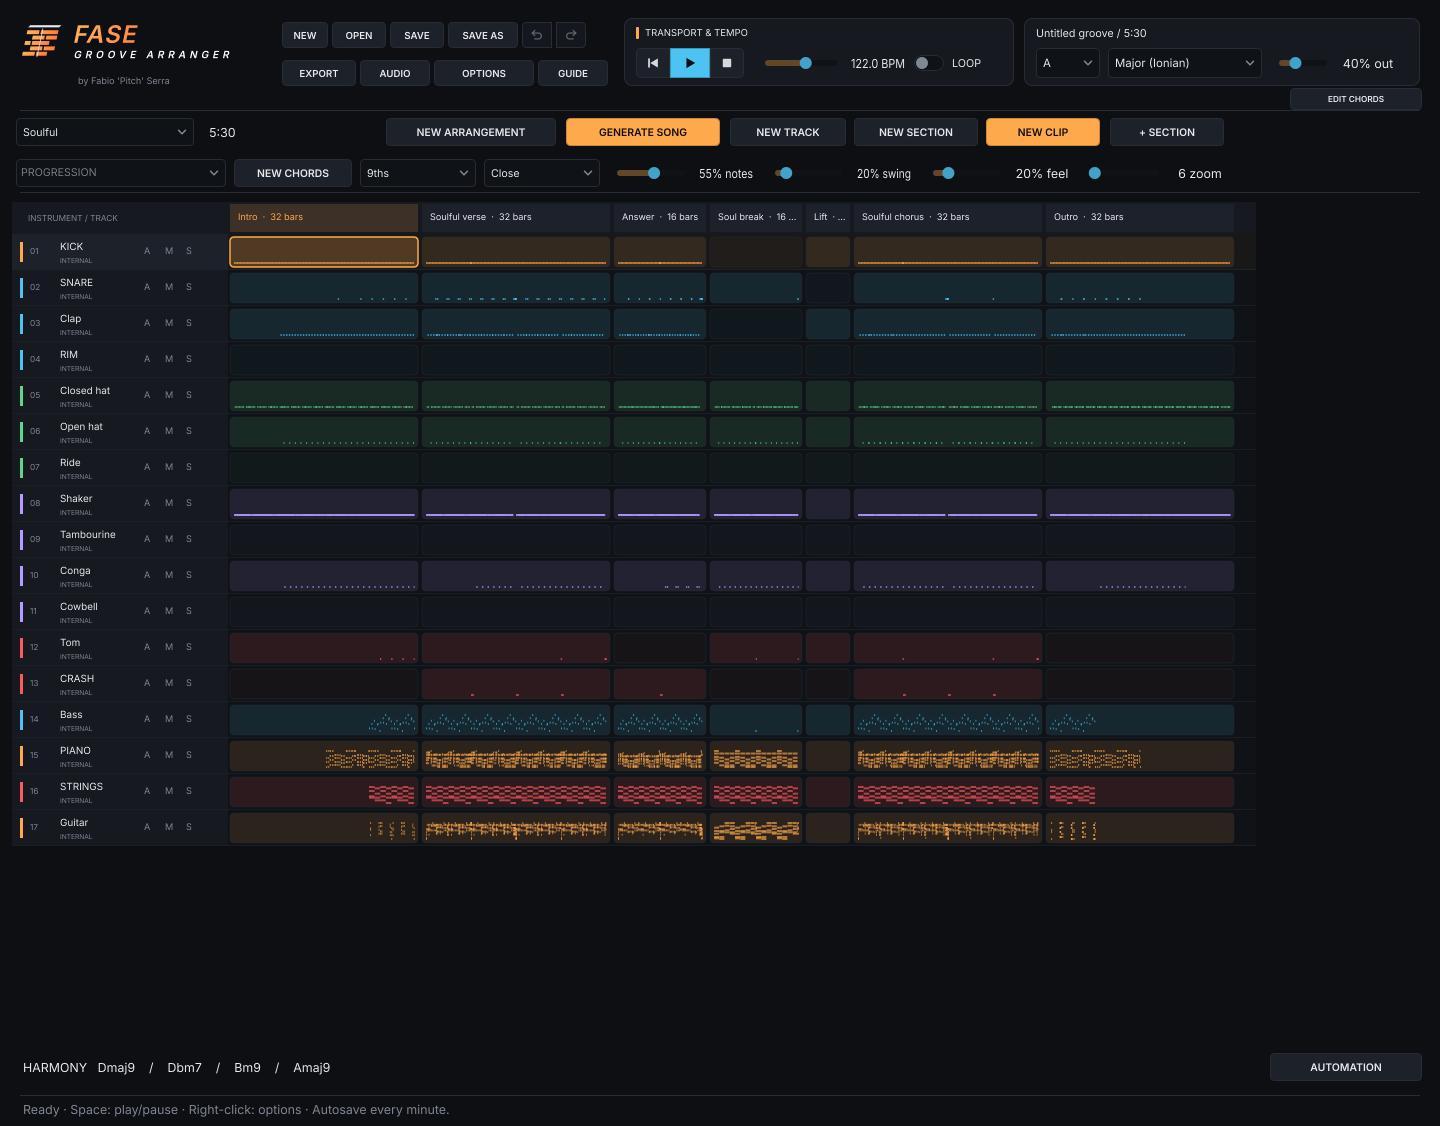
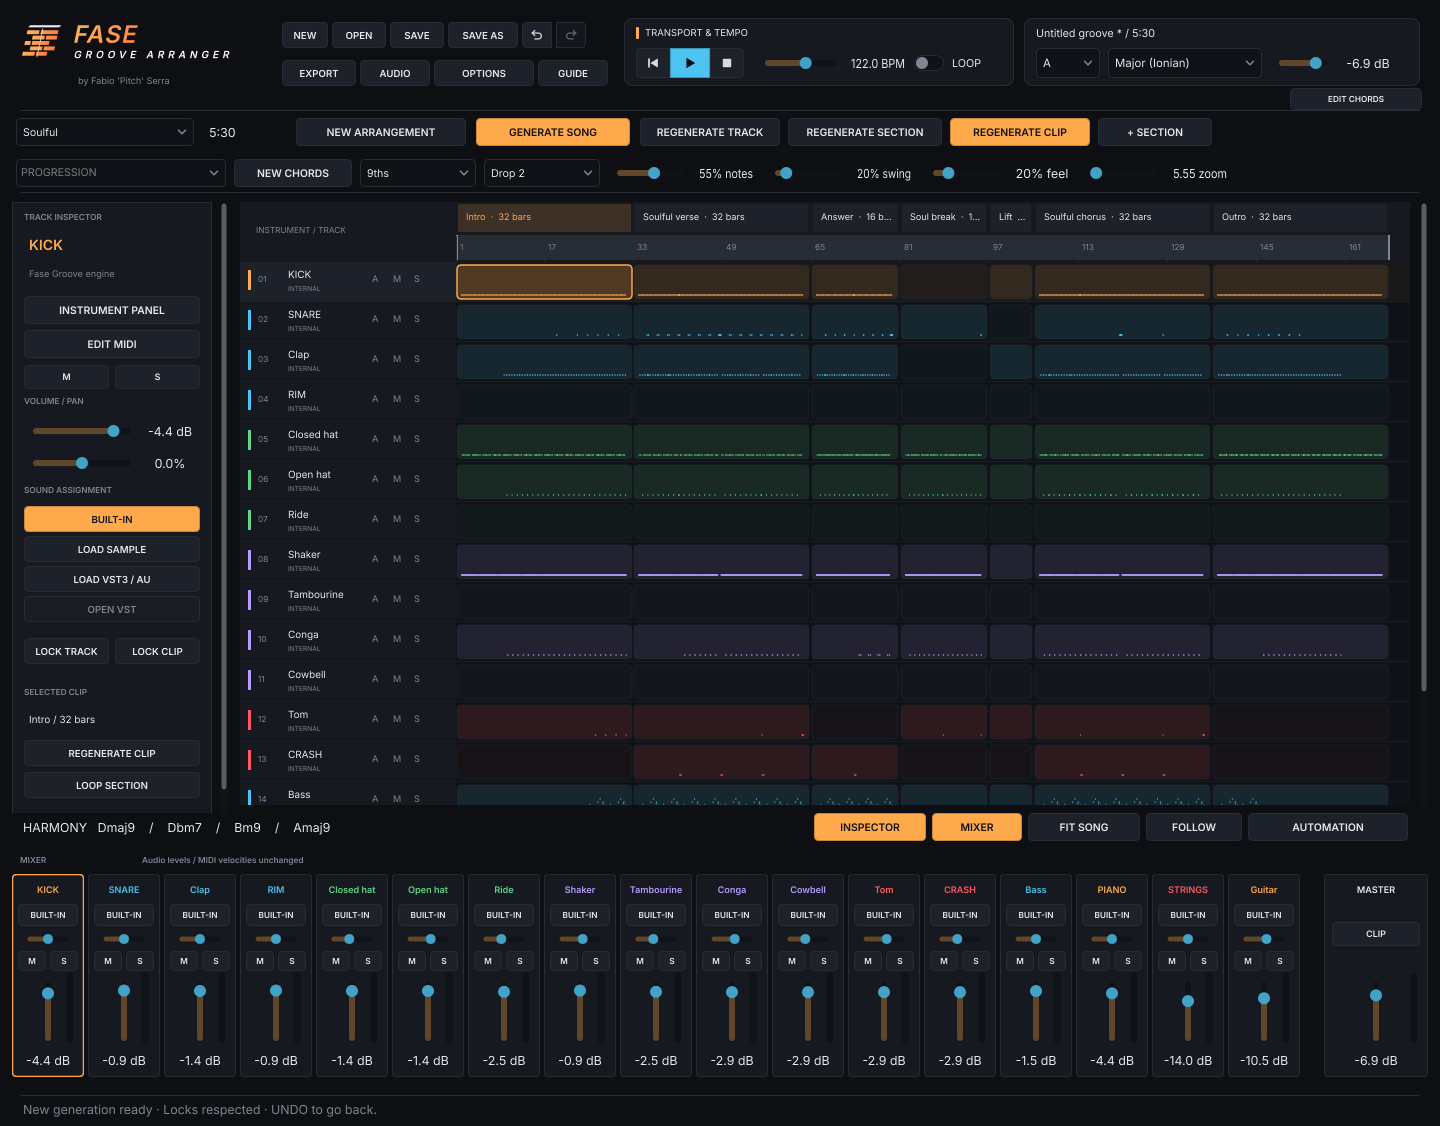
Refresh native guide screenshots and handle disabled audio outputs safely

diff --git a/Source/MainComponent.cpp b/Source/MainComponent.cpp
@@ -519,7 +519,7 @@ void MainComponent::chooseFile(const juce::String& title,const juce::String& fil
 void MainComponent::save(bool as){if(loadingPlugin){message("Attendi il caricamento dello strumento.");return;}audio.capturePluginStates(project);if(as||projectFile==juce::File()){chooseFile("Salva progetto","*.fga",juce::FileBrowserComponent::saveMode|juce::FileBrowserComponent::canSelectFiles|juce::FileBrowserComponent::warnAboutOverwriting,[this](juce::File file){const auto target=file.withFileExtension("fga");auto next=project;next.name=target.getFileNameWithoutExtension().toStdString();auto r=saveProject(next,target);if(r.wasOk()){projectFile=target;project.name=next.name;dirty=false;message("Progetto salvato: "+projectFile.getFullPathName());repaint();}else message(r.getErrorMessage(),true);});}else{auto r=saveProject(project,projectFile);if(r.wasOk()){dirty=false;message("Progetto salvato.");repaint();}else message(r.getErrorMessage(),true);}}
 void MainComponent::open(const juce::File& file){if(loadingPlugin){message("Attendi il caricamento dei plugin.");return;}if(!requestClose())return;Project next;auto r=loadProject(file,next);if(r.failed()){message(r.getErrorMessage(),true);return;}audio.stop();undoStack.clear();redoStack.clear();project=std::move(next);projectFile=file;selectedTrack=selectedSection=0;dirty=false;piano.clearSelection();audio.publish(project);refreshControls();restoreInstruments();select(4,0);showArrangement();message("Progetto aperto. I file audio e i plugin restano esterni al progetto.");repaint();}
 void MainComponent::restoreInstruments(){pluginWindow.reset();for(int i=0;i<trackCount;++i){audio.useInternal(i);auto t=project.tracks[(size_t)i];if(t.instrument=="sample"){auto r=audio.loadSample(i,juce::File(utf(t.instrumentPath)),t.sampleRoot);if(r.failed()){audio.markMissing(i);message("Campione mancante su "+utf(t.name)+": ricollegalo con LOAD SAMPLE.",true);}}else if(t.instrument=="plugin")loadPluginFile(i,juce::File::isAbsolutePath(utf(t.instrumentPath))?juce::File(utf(t.instrumentPath)):juce::File(),utf(t.instrumentId),utf(t.instrumentState));}audio.publish(project);}
-void MainComponent::loadSampleFile(int track,const juce::File& file){pluginWindow.reset();checkpoint();auto& t=project.tracks[(size_t)track];int root=track>=4?fgd::defaultNote(track-4):60;auto r=audio.loadSample(track,file,root);if(r.failed()){message(r.getErrorMessage(),true);return;}t.instrument="sample";t.instrumentPath=file.getFullPathName().toStdString();t.sampleRoot=root;t.instrumentId.clear();t.instrumentState.clear();changed(false);message(juce::String::fromUTF8("Campione caricato · nota radice ")+juce::String(root)+" (tasto destro sulla traccia per cambiarla).");}
+void MainComponent::loadSampleFile(int track,const juce::File& file){pluginWindow.reset();checkpoint();auto& t=project.tracks[(size_t)track];int root=track>=4?(t.engine.midiNote>=0?t.engine.midiNote:fgd::defaultNote(track-4)):60;auto r=audio.loadSample(track,file,root);if(r.failed()){message(r.getErrorMessage(),true);return;}t.instrument="sample";t.instrumentPath=file.getFullPathName().toStdString();t.sampleRoot=root;t.instrumentId.clear();t.instrumentState.clear();changed(false);message(juce::String::fromUTF8("Campione caricato · nota radice ")+juce::String(root)+" (tasto destro sulla traccia per cambiarla).");}
 void MainComponent::loadPluginFile(int track,const juce::File& file,const juce::String& id,const juce::String& state){
     if(id.isNotEmpty())audio.markMissing(track);
     if(auto xml=juce::XmlDocument::parse(id)){

diff --git a/Source/AudioEngine.cpp b/Source/AudioEngine.cpp
@@ -73,7 +73,7 @@ void AudioEngine::render(float* const* output,int channels,int count,double beat
         i.midi.clear();i.guitarEvents.clear();
         const bool audible=onlyTrack>=0?ti==onlyTrack:(!i.mute&&(!anySolo||i.solo));
         float meter=0;
-        if(audible){for(int s=0;s<count;++s)i.volumeGains[(size_t)s]=(float)i.volume.valueAt(beat+s/samplesPerBeat);for(int ch=0;ch<std::min(2,channels);++ch){auto* in=block.getReadPointer(std::min(ch,block.getNumChannels()-1));auto& gain=ch==0?i.leftGain:i.rightGain;for(int s=0;s<count;++s){const float v=in[s]*gain.getNextValue()*i.volumeGains[(size_t)s];output[ch][s]+=v;meter=std::max(meter,std::abs(v));}}
+        if(audible){for(int s=0;s<count;++s)i.volumeGains[(size_t)s]=(float)i.volume.valueAt(beat+s/samplesPerBeat);for(int ch=0;ch<std::min(2,channels);++ch){if(!output[ch]){(ch==0?i.leftGain:i.rightGain).skip(count);continue;}auto* in=block.getReadPointer(std::min(ch,block.getNumChannels()-1));auto& gain=ch==0?i.leftGain:i.rightGain;for(int s=0;s<count;++s){const float v=in[s]*gain.getNextValue()*i.volumeGains[(size_t)s];output[ch][s]+=v;meter=std::max(meter,std::abs(v));}}
         }meters[(size_t)ti]=meter;
     }
 }
@@ -89,7 +89,7 @@ void AudioEngine::audioDeviceIOCallbackWithContext(const float* const*,int,float
     while(done<count&&playing){double beat=currentBeat;const bool hasLoop=looping&&loopTo-loopFrom>=1./960.;double boundary=hasLoop?loopTo:length;
         if(beat>=boundary-1e-9){if(hasLoop){currentBeat=loopFrom;needsChase=true;resetAt(loopFrom);continue;}playing=false;needsReset=true;break;}
         const int remain=std::max(1,(int)std::ceil((boundary-beat)*sampleRate*60./tempo.load()));int n=std::min({count-done,blockSize,remain});
-        float* pointers[2]{};int used=std::min(2,channels);for(int ch=0;ch<used;++ch)pointers[ch]=output[ch]+done;
+        float* pointers[2]{};int used=std::min(2,channels);for(int ch=0;ch<used;++ch)pointers[ch]=output[ch]?output[ch]+done:nullptr;
         render(pointers,used,n,beat);currentBeat=beat+n*tempo.load()/(sampleRate*60.);done+=n;
     }
     float outputPeak=0;for(int ch=0;ch<channels;++ch)if(output[ch])for(int s=0;s<count;++s){if(!std::isfinite(output[ch][s])){output[ch][s]=0;masterClip=true;}outputPeak=std::max(outputPeak,std::abs(output[ch][s]));}

diff --git a/Source/Main.cpp b/Source/Main.cpp
@@ -3,6 +3,7 @@
 #include "MainComponent.h"
 #include "Localisation.h"
 #include "ArrangementAudit.h"
+#include <cmath>
 namespace {
 class ScaledContent:public juce::Component {
 public:
@@ -106,6 +107,9 @@ public:
             juce::AudioBuffer<float> live(2,512);juce::AudioIODeviceCallbackContext context;
             audio.audioDeviceIOCallbackWithContext(nullptr,0,live.getArrayOfWritePointers(),2,512,context);
             bool transport=audio.position()>=0&&audio.position()<4&&audio.isPlaying();
+            float* optionalOutputs[]{live.getWritePointer(0),nullptr};
+            audio.audioDeviceIOCallbackWithContext(nullptr,0,optionalOutputs,2,512,context);
+            transport=transport&&std::isfinite(live.getRMSLevel(0,0,512));
             audio.play(false);audio.audioDeviceIOCallbackWithContext(nullptr,0,live.getArrayOfWritePointers(),2,512,context);
             transport=transport&&live.getMagnitude(0,512)==0&&audio.masterLevel()==0;
             for(int ti=0;ti<17;++ti)transport=transport&&audio.level(ti)==0;

diff --git a/docs/ARCHITECTURE.md b/docs/ARCHITECTURE.md
@@ -23,3 +23,11 @@ The UI reuses the original six-language family dictionaries, the circle of fifth
 Opt-in MIDI chord learning uses a selected device callback and restores its enabled state when closed. Pedal/expression controllers are scheduled to hosted instruments and SMF export, with sustain-aware seek chase. Guide-sound pump can follow a tempo subdivision or the kick MIDI schedule; it does not expose an external audio-sidechain bus. Musical tools prepare settings; explicit APPLY preserves the editable MIDI workflow.
 
 Track volume envelopes use optional schema-v1 `volumeAutomation` fields (`enabled`, musical-beat/value/outgoing-curve points). `VolumeAutomation::valueAt` is a bounded monotonic quadratic interpolation, held at the edges; disabled envelopes return unity. The audio graph evaluates the same gain per sample in playback and offline export, after each instrument and its guide effects, before track pan/master. No automation CC is injected into MIDI. UI lane visibility is independent of bypass and defaults to hidden. Section operations remap points in musical time; MIDI regeneration preserves them.
+
+## DAW workspace (0.5.0)
+
+`DawWorkspace.h/.cpp` owns the side track inspector and the seventeen mixer strips plus master. The mixer can resize vertically and reveals the selected channel. Its controls use the existing project gain/pan/mute/solo and sound assignments; `mixChanged()` updates audio without normalising all MIDI notes for every fader movement.
+
+`ArrangementView` keeps the track header and section/bar rulers visible while scrolling. Single clicks select clips, double clicks open the full editor, and drags swap or copy section-aligned clips on the same instrument. Shift-drag sets the persisted loop range. Track IDs and the `.fga` schema are unchanged.
+
+Section operations in `Project` transform loop locators and volume automation together with the musical structure. Whole-song loops remain whole-song loops after reordering. `AudioEngine` smooths live gain/pan targets, reports master peaks before the safety ceiling, clears pause meters and accepts disabled output-channel buffers.

diff --git a/docs/VALIDATION.md b/docs/VALIDATION.md
@@ -1,5 +1,17 @@
 # Validation record
 
+## DAW workspace and regressions (0.5.0)
+
+[Native interface validation](https://github.com/wsx79/fasegroovearranger/actions/runs/39558741208), source `4a403992e831ec5ad99577daf49741ff7e818e8f`:
+
+- Windows, universal macOS and Linux builds passed their engine, MP3 and project IO suites. The Linux app passed actual component gestures for clip selection/swap/undo, ruler seeking, loop dragging, full MIDI editing, audio-only fader changes and undo, plus compact workspace layout.
+- Native callback checks passed live fader ramping, pause silence/meters, seek/chase and loop boundaries. The final packaging refresh also checks disabled audio-output pointers and assigns newly loaded drum samples using their MIDI mapping.
+- Original instrument panels, family theme and Inter font files remain byte-identical. Six-language refresh preserves the musical JSON; tooltip and extended piano checks pass. Native screenshots from this run populate both source manuals and the embedded guide images.
+- All thirteen generated MIDI songs are byte-identical to the 0.4.7 baseline in local comparison. New core regressions cover whole-song and section loops, section-relative automation resizing and section-aligned clip swap/copy.
+- Host-fixture state restoration and independent WAV/MP3/stem checks passed. Final distribution rebuilds repeat native checks and the complete thirteen-genre audio audit; release `SOURCE.txt` identifies the exact packaged source and successful run.
+
+This verifies the tested processors and UI gestures. Real hardware and arbitrary commercial instruments still require testing on their target systems.
+
 ## Family alignment, 0.4.1
 
 [Windows, universal macOS and Linux validation](https://github.com/wsx79/fasegroovearranger/actions/runs/39393262535), source `8d9d10d1cf2dd3f32e3e2c6baeeff56ec510a3c9`, passed all four jobs, including native smoke and VST3 integration. The four manual screenshots now come directly from that native build. The following update-overlay and embedded-image refresh is checked by its own subsequent workflow, linked in the pull request.

diff --git a/CHANGELOG.it.md b/CHANGELOG.it.md
@@ -9,6 +9,8 @@
 
 - Transizioni di 10 ms su volume e pan durante la riproduzione, per evitare salti bruschi quando si muovono i fader.
 
+- Gestione delle uscite audio disattivate senza accessi a puntatori nulli; i campioni di batteria usano la mappatura MIDI della traccia come nota radice iniziale.
+
 ## 0.4.7 — 2026-10-20
 
 - Jackin’: hook a chops dalla libreria originale, basso Wurlitzer più articolato, archi spenti di default e chitarra ritmica a battute alterne nel riferimento funky/disco indicato. Gli altri generi restano invariati.

diff --git a/CHANGELOG.md b/CHANGELOG.md
@@ -9,6 +9,8 @@
 
 - Smooth live volume/pan transitions over 10 ms to avoid abrupt gain steps while moving faders.
 
+- Handle disabled audio outputs without null-pointer access; newly assigned drum samples use the track MIDI mapping as their initial root note.
+
 ## 0.4.7 — 2026-10-20
 
 - Jackin’: original-library chopped hooks, more articulated Wurlitzer bass, strings off by default and alternating percussive guitar in the requested funky/disco direction. Other genres remain unchanged.
